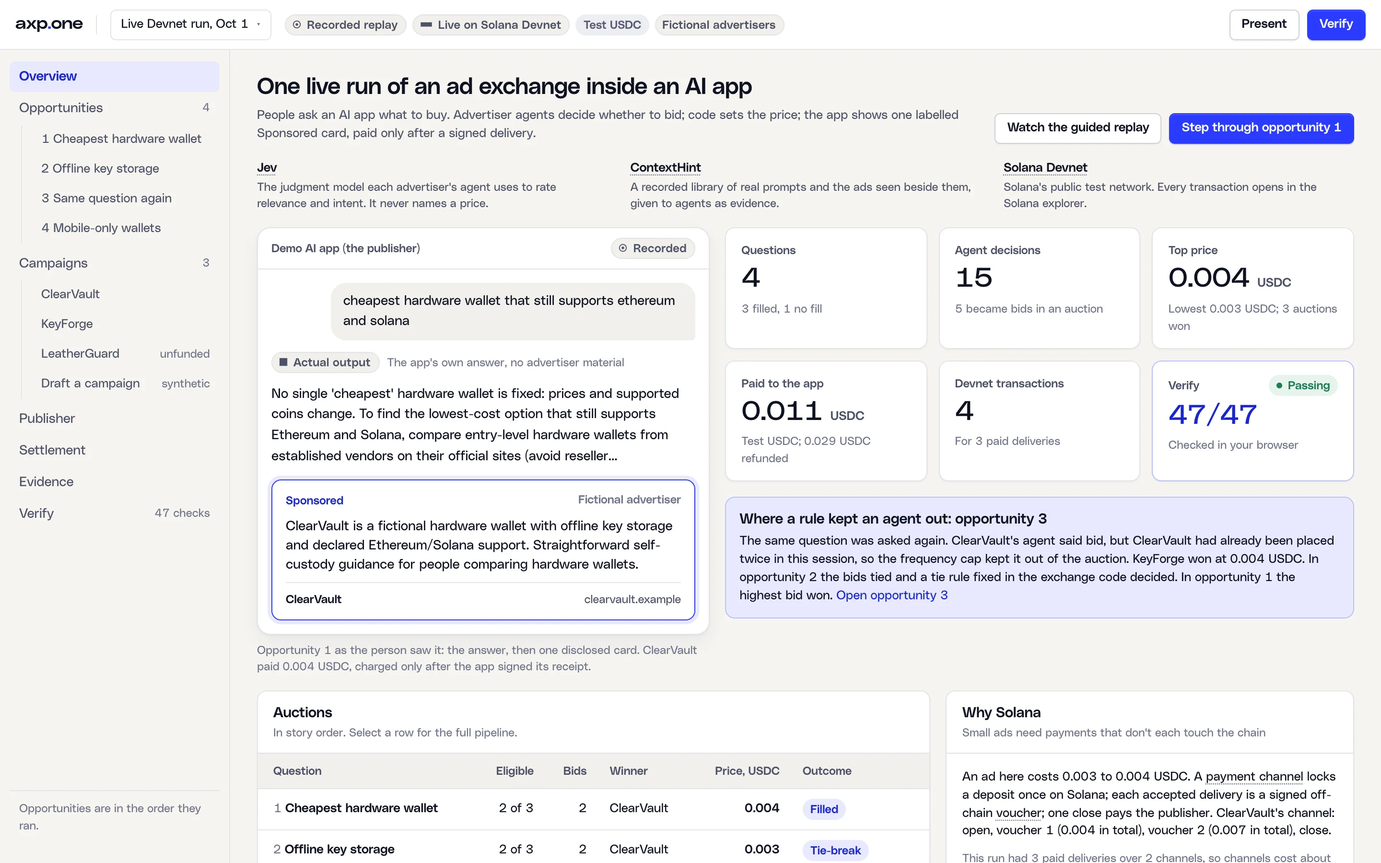
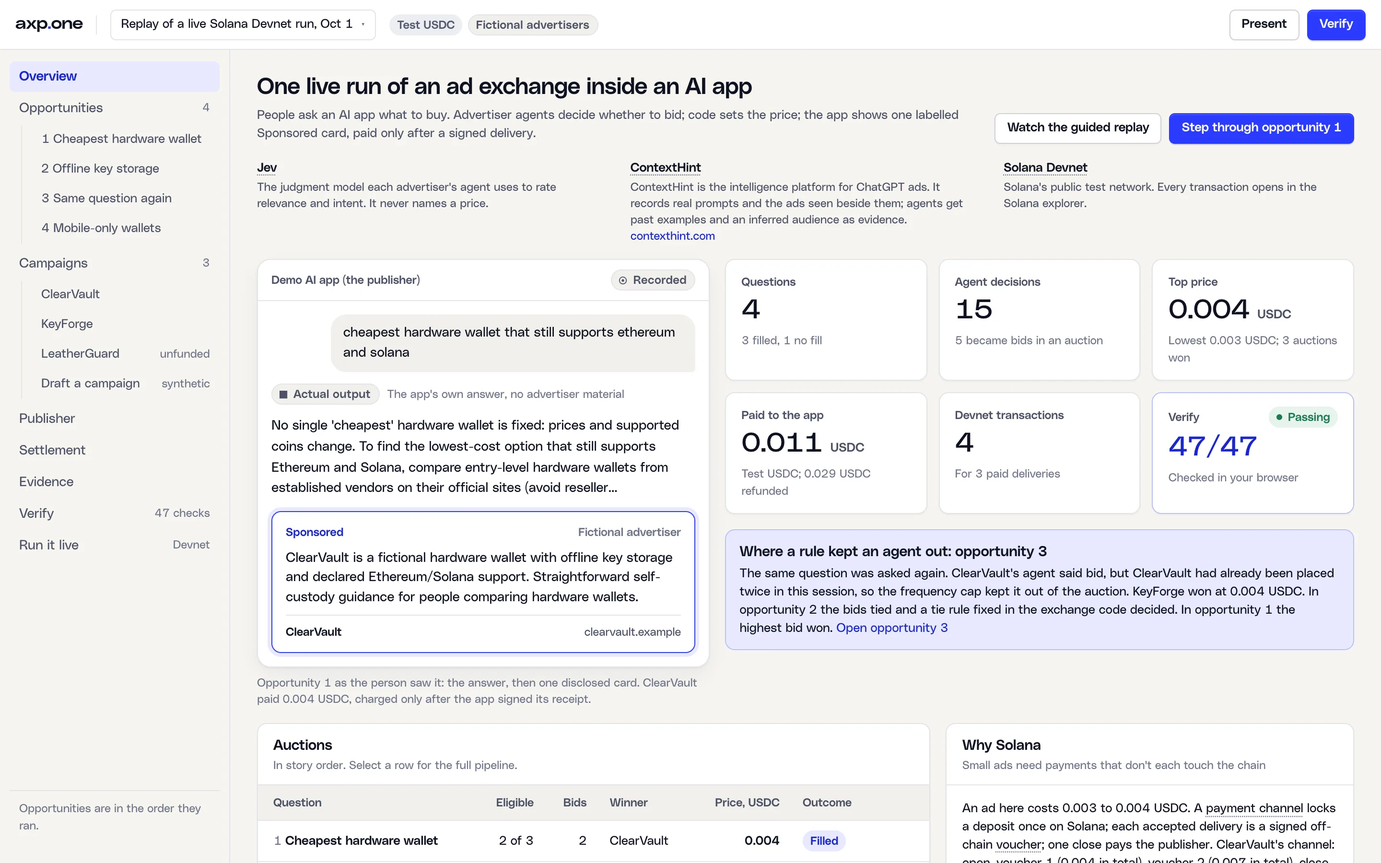
fix(landing v7.1): design review: Solana scene no longer resets, seam copy fades with the colour, equal How card tops, token steps aside, closing blends into the footer, unnumbered chapter labels, shorter gaps
- Solana: the step follows the scroll position from the start (no finished diagram before the pin, no
  reset to Open when it engages).
- Seams: Tone.tsx computes the same OKLCH blend as the layer and sets --tone-o per world from the live
  contrast between that world's type and the colour behind it; copy marked data-tone-text fades below
  about 2.3:1 and is fully shown from 3.5:1, so no headline crosses a seam on the wrong colour.
- The question token hides while a chapter visual (ad wall, lanes, channels, sheets) sits under it.
- How: four across, the steps share subgrid rows, so the four cards start at one height.
- Closing: the wall fades out before its bottom edge and the section's foot blends into the footer's
  paper; the footer keeps its own paper outside the tone layer, so the closing keeps its colour to the end.
- Chapter labels drop their numbers. Jev's section is shorter (gap to Solana 432 to 333px at 1440) and its
  sheet fills in about twice as fast. The hero pin is 294vh: the lone-tile stretch plays 2.5x faster,
  every other phase keeps its pace. Step 3 reads 'kept out by a fixed rule'.
- Inside the MVP: the four captures retaken from the v7 MVP (one run phrase in the header, plain units).

diff --git a/apps/marketing/src/v7/Tone.tsx b/apps/marketing/src/v7/Tone.tsx
@@ -21,6 +21,40 @@ const WORLDS: Record<string, [number, number, number]> = {
   brand: [43, 59, 255],
   sol: [153, 69, 255],
 };
+/** Each world's own type colour: ink on the light worlds, white on the deep ones. */
+const INK: Record<string, [number, number, number]> = { paper: [14, 18, 32], paper2: [14, 18, 32], ch: [14, 18, 32], stage: [255, 255, 255], brand: [255, 255, 255], sol: [255, 255, 255] };
+/* Readability at the seams. The layer's colour is the browser's OKLCH mix; the same mix is computed
+   here (sRGB to OKLab/OKLCH and back) to read the contrast between each world's type and the colour
+   actually behind it. Copy marked [data-tone-text] fades while that contrast is too low (under about
+   2.3:1) and is fully shown from about 3.5:1, so a headline never sits on the wrong world's colour. */
+const lin = (c: number) => ((c /= 255) <= 0.04045 ? c / 12.92 : Math.pow((c + 0.055) / 1.055, 2.4));
+function oklch([r, g, b]: [number, number, number]) {
+  const R = lin(r), G = lin(g), B = lin(b);
+  const l = Math.cbrt(0.4122214708 * R + 0.5363325363 * G + 0.0514459929 * B);
+  const m = Math.cbrt(0.2119034982 * R + 0.6806995451 * G + 0.1073969566 * B);
+  const q = Math.cbrt(0.0883024619 * R + 0.2817188376 * G + 0.6299787005 * B);
+  const L = 0.2104542553 * l + 0.793617785 * m - 0.0040720468 * q;
+  const A = 1.9779984951 * l - 2.428592205 * m + 0.4505937099 * q;
+  const Bb = 0.0259040371 * l + 0.7827717662 * m - 0.808675766 * q;
+  return [L, Math.hypot(A, Bb), Math.atan2(Bb, A)] as const;
+}
+/** Relative luminance of the OKLCH mix of a and b at t (shorter hue), clipped to sRGB. */
+function mixY(a: [number, number, number], b: [number, number, number], t: number) {
+  const [L1, C1, h1] = oklch(a);
+  const [L2, C2, h2] = oklch(b);
+  let dh = h2 - h1;
+  if (dh > Math.PI) dh -= 2 * Math.PI;
+  if (dh < -Math.PI) dh += 2 * Math.PI;
+  const L = L1 + (L2 - L1) * t, C = C1 + (C2 - C1) * t, h = h1 + dh * t;
+  const A = C * Math.cos(h), Bb = C * Math.sin(h);
+  const l = (L + 0.3963377774 * A + 0.2158037573 * Bb) ** 3;
+  const m = (L - 0.1055613458 * A - 0.0638541728 * Bb) ** 3;
+  const q = (L - 0.0894841775 * A - 1.291485548 * Bb) ** 3;
+  const k = (x: number) => Math.min(1, Math.max(0, x));
+  return 0.2126 * k(4.0767416621 * l - 3.3077115913 * m + 0.2309699292 * q) + 0.7152 * k(-1.2684380046 * l + 2.6097574011 * m - 0.3413193965 * q) + 0.0722 * k(-0.0041960863 * l - 0.7034186147 * m + 1.707614701 * q);
+}
+const lum = ([r, g, b]: [number, number, number]) => 0.2126 * lin(r) + 0.7152 * lin(g) + 0.0722 * lin(b);
+const contrast = (y1: number, y2: number) => (Math.max(y1, y2) + 0.05) / (Math.min(y1, y2) + 0.05);
 /** Blend in OKLCH along the shorter hue path, so a seam passes through vivid colour, not mud. */
 const mix = (a: [number, number, number], b: [number, number, number], t: number) =>
   t <= 0 ? `rgb(${a.join(",")})` : t >= 1 ? `rgb(${b.join(",")})` : `color-mix(in oklch shorter hue, rgb(${a.join(",")}) ${((1 - t) * 100).toFixed(1)}%, rgb(${b.join(",")}))`;
@@ -29,6 +63,7 @@ type Step = "ch" | "jev" | "sol" | null;
 
 export default function Tone() {
   const layer = useRef<HTMLDivElement>(null);
+  const token = useRef<HTMLDivElement>(null);
   const [step, setStep] = useState<Step>(null);
   useEffect(() => {
     const html = document.documentElement;
@@ -40,19 +75,21 @@ export default function Tone() {
       const mid = window.scrollY + vh * 0.5;
       const secs = Array.from(document.querySelectorAll<HTMLElement>("[data-world]")).map((el) => {
         const r = el.getBoundingClientRect();
-        return { w: el.dataset.world!, top: r.top + window.scrollY, bottom: r.bottom + window.scrollY };
+        return { el, w: el.dataset.world!, top: r.top + window.scrollY, bottom: r.bottom + window.scrollY };
       });
       // A seam the reference line can never fully cross (the first and the last) is pulled inwards,
       // so the page's top and bottom always rest on their own world's colour.
       const maxMid = document.documentElement.scrollHeight - vh * 0.5;
-      // The last seam is short (the footer is shorter than a screen), so the closing keeps its colour.
-      const Sk = (k: number) => vh * (k === secs.length - 2 ? 0.1 : 0.26);
+      // The closing is the last world: the footer keeps its own paper (with a blend at the closing's
+      // foot), so the closing keeps its colour to the end of the page.
+      const Sk = (_k: number) => vh * 0.26;
       for (let k = 0; k < secs.length - 1; k++) {
         const b = Math.min(secs[k]!.bottom, maxMid - Sk(k) - 1);
         secs[k]!.bottom = b;
         secs[k + 1]!.top = b;
       }
-      const i = Math.max(0, secs.findIndex((x) => mid >= x.top && mid < x.bottom));
+      let i = secs.findIndex((x) => mid >= x.top && mid < x.bottom);
+      if (i < 0) i = secs.length && mid >= secs[secs.length - 1]!.bottom ? secs.length - 1 : 0;
       const stepEl = Array.from(document.querySelectorAll<HTMLElement>("[data-step]")).find((el) => {
         const r = el.getBoundingClientRect();
         return r.top <= vh * 0.5 && r.bottom > vh * 0.5;
@@ -65,9 +102,34 @@ export default function Tone() {
       const next = secs[i + 1];
       const prev = secs[i - 1];
       let bg = mix(here, here, 0);
-      if (next && cur.bottom - mid < S) bg = mix(here, WORLDS[next.w] ?? here, smooth(0.5 - (cur.bottom - mid) / (2 * S)));
-      else if (prev && mid - cur.top < Sp) bg = mix(WORLDS[prev.w] ?? here, here, smooth(0.5 + (mid - cur.top) / (2 * Sp)));
+      let Y = lum(here);
+      if (next && cur.bottom - mid < S) {
+        const t = smooth(0.5 - (cur.bottom - mid) / (2 * S));
+        bg = mix(here, WORLDS[next.w] ?? here, t);
+        Y = mixY(here, WORLDS[next.w] ?? here, t);
+      } else if (prev && mid - cur.top < Sp) {
+        const t = smooth(0.5 + (mid - cur.top) / (2 * Sp));
+        bg = mix(WORLDS[prev.w] ?? here, here, t);
+        Y = mixY(WORLDS[prev.w] ?? here, here, t);
+      }
       if (layer.current) layer.current.style.background = bg;
+      for (const x of secs) {
+        const ink = INK[x.w] ?? INK.paper!;
+        const o = Math.min(1, Math.max(0, (contrast(lum(ink), Y) - 2.3) / 1.2));
+        const v = o > 0.99 ? "1" : o.toFixed(2);
+        if (x.el.style.getPropertyValue("--tone-o") !== v) x.el.style.setProperty("--tone-o", v);
+      }
+      // The question token steps aside wherever a chapter's visual sits under it.
+      const tk = token.current;
+      if (tk) {
+        const tr = tk.getBoundingClientRect();
+        const hit = tr.width > 0 && Array.from(document.querySelectorAll<HTMLElement>("[data-visual], [data-token-avoid]")).some((el) => {
+          if (el === tk || tk.contains(el)) return false;
+          const r = el.getBoundingClientRect();
+          return r.left < tr.right + 8 && r.right > tr.left - 8 && r.top < tr.bottom + 8 && r.bottom > tr.top - 8;
+        });
+        if (hit !== (tk.dataset.hide === "1")) tk.dataset.hide = hit ? "1" : "";
+      }
       const st = (stepEl?.dataset.step as Step) ?? null;
       setStep((c) => (c === st ? c : st));
     };
@@ -88,7 +150,7 @@ export default function Tone() {
   return (
     <>
       <div ref={layer} className={s.layer} aria-hidden />
-      <div className={s.token} data-step={step ?? undefined} data-visual="" aria-hidden>
+      <div ref={token} className={s.token} data-step={step ?? undefined} aria-hidden>
         <span className={s.q}>{CACHED.question}</span>
         <span className={s.state}>
           <i>{st?.n ?? ""}</i>

diff --git a/apps/marketing/src/v7/jev.module.css b/apps/marketing/src/v7/jev.module.css
@@ -2,11 +2,10 @@
    Its parts play in sequence once the sheet has scrolled in ([data-in], set by MotionRoot). */
 .jev { position: relative; overflow: clip; background: var(--brand); color: #fff; }
 .jev::before { content: ""; position: absolute; inset: 0; -webkit-mask-image: linear-gradient(180deg, transparent, #000 25%, #000 75%, transparent); mask-image: linear-gradient(180deg, transparent, #000 25%, #000 75%, transparent); background: radial-gradient(60% 70% at 78% 50%, rgba(255, 255, 255, 0.14), transparent 70%), radial-gradient(50% 60% at 10% 100%, rgba(10, 14, 42, 0.35), transparent 70%); pointer-events: none; }
-.grid { position: relative; display: grid; gap: 48px; align-items: center; min-height: 100svh; padding: clamp(96px, 13vh, 140px) 0 clamp(64px, 9vh, 104px); }
+.grid { position: relative; display: grid; gap: 48px; align-items: center; min-height: 82svh; padding: clamp(96px, 13vh, 140px) 0 clamp(32px, 5vh, 56px); }
 @media (min-width: 1000px) { .grid { grid-template-columns: minmax(0, 0.62fr) minmax(0, 1.38fr); gap: clamp(32px, 5vw, 88px); } }
 .left { display: grid; gap: 24px; align-content: center; }
-.label { justify-self: start; display: inline-flex; align-items: center; gap: 8px; margin: 0; height: 32px; padding: 0 14px 0 5px; border-radius: var(--px-r-full); background: rgba(10, 14, 42, 0.94); color: #fff; font-size: 13.5px; font-weight: 500; }
-.label i { display: grid; place-items: center; width: 22px; height: 22px; border-radius: var(--px-r-full); background: var(--brand); color: #fff; font-size: 12px; font-style: normal; }
+.label { justify-self: start; display: inline-flex; align-items: center; gap: 8px; margin: 0; height: 32px; padding: 0 14px; border-radius: var(--px-r-full); background: rgba(10, 14, 42, 0.94); color: #fff; font-size: 13.5px; font-weight: 500; }
 .h2 { margin: 0; font-family: var(--font-display); font-weight: 300; font-size: clamp(38px, 4vw, 68px); line-height: 0.98; letter-spacing: -0.035em; max-width: 9ch; }
 .credit { justify-self: start; display: inline-flex; align-items: center; gap: 14px; padding: 6px 0; color: #fff; font-size: 17px; font-weight: 500; text-decoration: underline; text-decoration-color: rgba(255, 255, 255, 0.55); text-decoration-thickness: 1.5px; text-underline-offset: 7px; }
 .credit:hover { text-decoration-color: #fff; }
@@ -57,13 +56,13 @@
 :global(html[data-px-motion="on"]) .sheet:not([data-in]) .conf,
 :global(html[data-px-motion="on"]) .sheet:not([data-in]) .code { opacity: 0; }
 .input { transition: opacity 600ms var(--ease-out), transform 700ms var(--ease-out); transition-delay: calc(var(--i) * 110ms); }
-.flow i { transition: scale 600ms var(--ease-out); transition-delay: calc(400ms + var(--i) * 80ms); transform-origin: 0 50%; }
-.flow::after { transform-origin: 0 50%; transition: scale 500ms var(--ease-out) 1050ms; }
-.engine { transition: opacity 400ms var(--ease-out) 750ms, transform 600ms cubic-bezier(0.3, 1.5, 0.5, 1) 750ms; }
-.out { transition: opacity 600ms var(--ease-out), transform 700ms var(--ease-out); transition-delay: calc(1150ms + var(--i) * 160ms); }
-.levels i { transform-origin: 0 50%; transition: scale 600ms var(--ease-out); transition-delay: calc(1300ms + var(--i) * 90ms); }
-.conf { transition: opacity 500ms var(--ease) 1800ms; }
-.code { transition: opacity 600ms var(--ease) 2100ms; }
+.flow i { transition: scale 600ms var(--ease-out); transition-delay: calc(200ms + var(--i) * 80ms); transform-origin: 0 50%; }
+.flow::after { transform-origin: 0 50%; transition: scale 500ms var(--ease-out) 600ms; }
+.engine { transition: opacity 400ms var(--ease-out) 450ms, transform 600ms cubic-bezier(0.3, 1.5, 0.5, 1) 450ms; }
+.out { transition: opacity 600ms var(--ease-out), transform 700ms var(--ease-out); transition-delay: calc(700ms + var(--i) * 110ms); }
+.levels i { transform-origin: 0 50%; transition: scale 600ms var(--ease-out); transition-delay: calc(850ms + var(--i) * 110ms); }
+.conf { transition: opacity 500ms var(--ease) 1050ms; }
+.code { transition: opacity 600ms var(--ease) 1200ms; }
 
 @media (max-width: 760px) {
   .sheet { grid-template-columns: 1fr; }

diff --git a/apps/marketing/src/v7/Solana.tsx b/apps/marketing/src/v7/Solana.tsx
@@ -5,7 +5,7 @@
 // signed voucher off chain (0.004, then 0.007 in total), one close on Solana pays the AI app and
 // refunds the rest. Pinned at >= 900px with motion on, each step arrives as you scroll; still, all
 // four are shown. Then the proof: the live run's own transactions on Solana Devnet, on Explorer.
-import { useRef, useState } from "react";
+import { useEffect, useRef, useState } from "react";
 import { useMotionValueEvent, useScroll } from "motion/react";
 import { Arrow } from "@axp/design-system/prospectus";
 import { CV, CV_CHANNEL, RUN, usdc } from "@/data/run";
@@ -34,11 +34,17 @@ export default function Solana() {
   pinnedRef.current = pinned;
   const [step, setStep] = useState(4);
   const { scrollYProgress: p } = useScroll({ target: ref, offset: ["start start", "end end"] });
+  const stepOf = (v: number) => (v < 0.08 ? 0 : v < 0.3 ? 1 : v < 0.5 ? 2 : v < 0.7 ? 3 : 4);
   useMotionValueEvent(p, "change", (v) => {
     if (!pinnedRef.current) return;
-    const st = v < 0.08 ? 0 : v < 0.3 ? 1 : v < 0.5 ? 2 : v < 0.7 ? 3 : 4;
+    const st = stepOf(v);
     setStep((c) => (c === st ? c : st));
   });
+  // The step follows the scroll position from the start: above the pin the progress is 0 and no
+  // "change" fires, so without this the finished diagram showed while scrolling in, then reset.
+  useEffect(() => {
+    if (pinned) setStep(stepOf(p.get()));
+  }, [pinned, p]);
   const shown = pinned ? step : 4;
   const vs = CV_CHANNEL.vouchers;
   const fill = shown >= 3 ? vs[1]?.cumulative ?? vs[0]!.cumulative : shown >= 2 ? vs[0]!.cumulative : "0";
@@ -48,10 +54,9 @@ export default function Solana() {
       <div className={s.pin} ref={ref} data-step="sol" data-pinned={pinned ? "" : undefined}>
         <div className={s.stage} data-step={shown}>
           <div className={`px-wrap ${s.in}`}>
-            <div className={s.head}>
+            <div className={s.head} data-tone-text="">
               <div className={s.pills}>
                 <span className={s.label}>
-                  <i>3</i>
                   {SOLANA.label}
                 </span>
                 <span className={s.live}>{SOLANA.live}</span>
@@ -106,8 +111,8 @@ export default function Solana() {
       </div>
 
       <div className={`px-wrap ${s.proof}`} data-reveal="fade">
-        <h3 className={s.h3}>{SOLANA.devnetH}</h3>
-        <div className={s.channels}>
+        <h3 className={s.h3} data-tone-text="">{SOLANA.devnetH}</h3>
+        <div className={s.channels} data-tone-text="" data-token-avoid="">
           {SOLANA.explorerChannels.map(({ name, ch }) =>
             ch ? (
               <div key={name} className={s.channel}>
@@ -136,7 +141,7 @@ export default function Solana() {
             </div>
           </div>
         </div>
-        <p className={s.note}>{SOLANA.note}</p>
+        <p className={s.note} data-tone-text="">{SOLANA.note}</p>
       </div>
     </section>
   );

diff --git a/apps/marketing/src/v7/ch.module.css b/apps/marketing/src/v7/ch.module.css
@@ -4,8 +4,7 @@
 .grid { display: grid; gap: 40px; min-height: 100svh; padding: clamp(88px, 11vh, 120px) 0 clamp(48px, 7vh, 80px); align-items: center; }
 @media (min-width: 1000px) { .grid { grid-template-columns: minmax(0, 0.92fr) minmax(0, 1.08fr); gap: clamp(32px, 4vw, 72px); } }
 .left { position: relative; z-index: 2; display: grid; gap: clamp(16px, 2.2vh, 26px); align-content: center; }
-.label { justify-self: start; display: inline-flex; align-items: center; gap: 8px; margin: 0; height: 32px; padding: 0 14px 0 5px; border-radius: var(--px-r-full); background: rgba(10, 14, 42, 0.94); color: #fff; font-size: 13.5px; font-weight: 500; }
-.label i { display: grid; place-items: center; width: 22px; height: 22px; border-radius: var(--px-r-full); background: var(--contexthint); color: var(--ink); font-size: 12px; font-style: normal; }
+.label { justify-self: start; display: inline-flex; align-items: center; gap: 8px; margin: 0; height: 32px; padding: 0 14px; border-radius: var(--px-r-full); background: rgba(10, 14, 42, 0.94); color: #fff; font-size: 13.5px; font-weight: 500; }
 .moat { margin: 0; max-width: 17ch; font-family: var(--font-display); font-weight: 300; font-size: clamp(38px, 4vw, 68px); line-height: 0.98; letter-spacing: -0.035em; text-wrap: balance; }
 .accent { color: #fff; }
 .what { justify-self: start; max-width: 36ch; font-size: clamp(18px, 1.5vw, 22px); font-weight: 500; line-height: 1.35; color: var(--ink); text-decoration: underline; text-decoration-thickness: 1.5px; text-decoration-color: rgba(14, 18, 32, 0.45); text-underline-offset: 6px; }

diff --git a/apps/marketing/src/v7/Hero.tsx b/apps/marketing/src/v7/Hero.tsx
@@ -26,6 +26,20 @@ import { IDENTITY, io, lerp, mixM, mul, out, seg, type M2 } from "@/motion/motio
 import { FlatStack, PH, PLATE_IDS, PLATE_M7, PW, Plate, GAP, StillStack, plateCss, plateMatrix, stackSize } from "./Plates";
 import s from "./hero.module.css";
 
+/** Scroll progress over the 294vh pin (194vh of travel) to the timeline v, which was written for a
+ *  310vh pin (210vh of travel). Every phase keeps its original pace per pixel of scroll, except the
+ *  stretch where the landed tile sits alone on paper (v 0.27 to 0.40), which plays 2.5x faster. */
+const WARP = { D: 210, A: 0.27, B: 0.4, k: 2.5, T: 194 };
+function warpHero(u: number) {
+  const { D, A, B, k, T } = WARP;
+  const sv = u * T;
+  const sA = A * D;
+  const sB = sA + ((B - A) * D) / k;
+  if (sv <= sA) return sv / D;
+  if (sv <= sB) return A + ((sv - sA) * k) / D;
+  return Math.min(1, B + (sv - sB) / D);
+}
+
 const COLS = 7;
 const PER = 5;
 const DURS = [96, 118, 88, 124, 104, 112, 92];
@@ -174,7 +188,9 @@ export default function Hero() {
   const reduce = useReduced();
   const pinnedRef = useRef(false);
   pinnedRef.current = pinned;
-  const { scrollYProgress: p } = useScroll({ target: ref, offset: ["start start", "end end"] });
+  const { scrollYProgress: raw } = useScroll({ target: ref, offset: ["start start", "end end"] });
+  // The timeline below is written in v (0 to 1); warpHero maps the 294vh pin onto it.
+  const p = useTransform(raw, warpHero);
 
   // Cursor parallax: a few springy degrees, fading as the plane straightens.
   const mx = useMotionValue(0);

diff --git a/apps/marketing/src/v7/closing.module.css b/apps/marketing/src/v7/closing.module.css
@@ -1,5 +1,8 @@
 /* v7 closing: ultramarine, the wall returns in white at low contrast behind the promises. */
 .close { position: relative; overflow: clip; min-height: 92svh; display: grid; align-content: center; background: var(--brand); color: #fff; }
+/* The wall fades out before its own bottom edge, and the section's foot blends into the footer's paper. */
+.wallMask { position: absolute; inset: 0; -webkit-mask-image: linear-gradient(180deg, #000 0%, #000 52%, transparent 86%); mask-image: linear-gradient(180deg, #000 0%, #000 52%, transparent 86%); }
+.close::after { content: ""; position: absolute; left: 0; right: 0; bottom: 0; z-index: 2; height: clamp(96px, 16vh, 180px); background: linear-gradient(180deg, color-mix(in oklab, var(--paper) 0%, transparent), var(--paper)); pointer-events: none; }
 .fog { position: absolute; inset: 0; z-index: 2; pointer-events: none; background: radial-gradient(70% 70% at 30% 55%, color-mix(in oklab, var(--brand) 94%, transparent) 0%, color-mix(in oklab, var(--brand) 80%, transparent) 45%, color-mix(in oklab, var(--brand) 35%, transparent) 75%, transparent 100%); }
 .in { position: relative; z-index: 3; display: grid; gap: 40px; padding: clamp(96px, 14vh, 160px) 0; }
 .h2 { margin: 0; max-width: 13ch; font-family: var(--font-display); font-weight: 300; font-size: clamp(52px, 7vw, 124px); line-height: 0.92; letter-spacing: -0.04em; }

diff --git a/apps/marketing/src/v7/how.module.css b/apps/marketing/src/v7/how.module.css
@@ -73,6 +73,11 @@
 .how[data-pinned] .line i { transform: scaleX(0); }
 .rail { position: relative; display: grid; grid-template-columns: repeat(4, minmax(0, 1fr)); gap: clamp(16px, 2vw, 28px); margin: 0; padding: 0; list-style: none; }
 .rail li { display: grid; grid-template-rows: 36px auto 1fr; gap: 16px; align-content: start; min-width: 0; }
+/* Four across: the steps share row tracks, so the four cards start at one height however the titles wrap. */
+@media (min-width: 1100px) {
+  .rail { grid-template-rows: 36px auto 1fr; row-gap: 16px; }
+  .rail li { grid-row: span 3; grid-template-rows: subgrid; }
+}
 .node { display: grid; place-items: center; width: 36px; height: 36px; border-radius: var(--px-r-full); background: var(--stage); box-shadow: inset 0 0 0 2px var(--stage-line); font-size: 15px; font-weight: 500; color: var(--stage-muted); font-variant-numeric: tabular-nums; transition: background 300ms var(--ease), box-shadow 300ms var(--ease), color 300ms var(--ease); }
 .t { margin: 0; max-width: 24ch; font-family: var(--font-display); font-size: clamp(18px, 1.45vw, 23px); font-weight: 400; line-height: 1.2; letter-spacing: -0.01em; color: var(--stage-ink); transition: opacity 400ms var(--ease); }
 .spec {

diff --git a/apps/marketing/src/v7/sol.module.css b/apps/marketing/src/v7/sol.module.css
@@ -13,8 +13,7 @@
 .head { display: grid; gap: 18px; max-width: 900px; }
 .pills { display: flex; flex-wrap: wrap; gap: 8px; }
 .label, .live { height: 30px; padding: 0 12px; border-radius: var(--px-r-full); font-size: 13.5px; font-weight: 500; line-height: 30px; }
-.label { display: inline-flex; align-items: center; gap: 8px; height: 32px; padding: 0 14px 0 5px; background: rgba(10, 14, 42, 0.94); }
-.label i { display: grid; place-items: center; width: 22px; height: 22px; border-radius: var(--px-r-full); background: var(--sol-green); color: var(--sol-ink); font-size: 12px; font-style: normal; }
+.label { display: inline-flex; align-items: center; gap: 8px; height: 32px; padding: 0 14px; background: rgba(10, 14, 42, 0.94); }
 .live { height: 32px; line-height: 32px; background: var(--sol-ink); color: var(--g); }
 .h2 { margin: 0; font-family: var(--font-display); font-weight: 300; font-size: clamp(38px, 4vw, 68px); line-height: 0.98; letter-spacing: -0.035em; }
 .lede { margin: 0; max-width: 46ch; font-size: clamp(17px, 1.35vw, 21px); line-height: 1.45; color: #fff; }

diff --git a/apps/marketing/src/v7/ContextHint.tsx b/apps/marketing/src/v7/ContextHint.tsx
@@ -44,9 +44,8 @@ export default function ContextHint() {
   return (
     <section ref={ref} id="data" data-world="ch" data-step="ch" className={s.ch} data-header-tone="ch" aria-labelledby="ch-title">
       <div className={`px-wrap ${s.grid}`}>
-        <div className={s.left}>
+        <div className={s.left} data-tone-text="">
           <p className={s.label}>
-            <i>1</i>
             {CONTEXTHINT.label}
           </p>
           <h2 id="ch-title" className={s.moat} data-reveal="fade">
@@ -69,8 +68,8 @@ export default function ContextHint() {
             <Arrow width={22} />
           </a>
         </div>
-        <div className={s.right}>
-          <p className={s.wallLabel}>{CONTEXTHINT.wallLabel}</p>
+        <div className={s.right} data-token-avoid="">
+          <p className={s.wallLabel} data-tone-text="">{CONTEXTHINT.wallLabel}</p>
           <div className={s.wall} aria-hidden>
             <motion.div className={s.plane} style={reduce ? undefined : { rotateX, y, transformPerspective: 1400 }}>
               {columns.map((ads, c) => (

diff --git a/apps/marketing/src/v7/Proof.tsx b/apps/marketing/src/v7/Proof.tsx
@@ -11,7 +11,7 @@ export default function Proof() {
   return (
     <section id="proof" data-world="paper2" className={s.proof} aria-labelledby="proof-title">
       <div className={`px-wrap ${s.grid}`}>
-        <div className={s.left}>
+        <div className={s.left} data-tone-text="">
           <p className={s.label}>{PROOF.label}</p>
           <h2 id="proof-title" className="px-h1">
             {PROOF.h2}
@@ -46,13 +46,13 @@ export default function Proof() {
                 <track kind="captions" src={`/${v.captions}`} srcLang="en" label="English" default />
               </video>
             </div>
-            <figcaption>
+            <figcaption data-tone-text="">
               <b>{PROOF.video}</b> {VIDEO.caption}
             </figcaption>
           </figure>
         ) : null}
       </div>
-      <div className={`px-wrap ${s.next}`}>
+      <div className={`px-wrap ${s.next}`} data-tone-text="">
         <h3 className={s.h3}>{NEXT.h3}</h3>
         <ul className={s.pills} aria-label="Working now">
           {NEXT.now.map((x) => (

diff --git a/apps/marketing/src/v7/Closing.tsx b/apps/marketing/src/v7/Closing.tsx
@@ -21,9 +21,11 @@ export default function Closing() {
   const rz = useTransform(p, (v) => -3 - 8 * t(v));
   return (
     <section ref={ref} data-world="brand" className={s.close} data-tone="brand" data-header-tone="brand" aria-labelledby="close-title">
-      <Wall lite tone="brand" opacity={0.2} plane={{ x: reduce ? 26 : rx, y: 6, z: reduce ? -11 : rz }} cam={{ z: reduce ? 0 : z, y: 0 }} />
+      <div className={s.wallMask} aria-hidden>
+        <Wall lite tone="brand" opacity={0.2} plane={{ x: reduce ? 26 : rx, y: 6, z: reduce ? -11 : rz }} cam={{ z: reduce ? 0 : z, y: 0 }} />
+      </div>
       <div className={s.fog} aria-hidden />
-      <div className={`px-wrap ${s.in}`}>
+      <div className={`px-wrap ${s.in}`} data-tone-text="">
         <h2 id="close-title" className={s.h2}>
           {CLOSING.h2}
         </h2>

diff --git a/apps/marketing/src/app/site.css b/apps/marketing/src/app/site.css
@@ -21,3 +21,7 @@ html[data-px-film] .nextjs-portal, html[data-px-film] nextjs-portal { display: n
    backgrounds and the single fixed layer carries the colour, blending across every seam. */
 html[data-px-tone="on"] body, html[data-px-tone="on"] [data-world] { background: transparent !important; }
 html[data-px-tone="on"] [data-world] .px-footer { background: transparent; border-top-color: transparent; }
+/* Copy that sits straight on the tone layer fades while the colour behind it cannot carry it
+   (--tone-o is set per world by Tone.tsx from the live contrast), so no headline crosses a seam
+   on the wrong colour. Without JS or the layer, --tone-o is unset and the copy is fully shown. */
+html[data-px-tone="on"] [data-tone-text] { opacity: var(--tone-o, 1); transition: opacity 160ms linear; }
